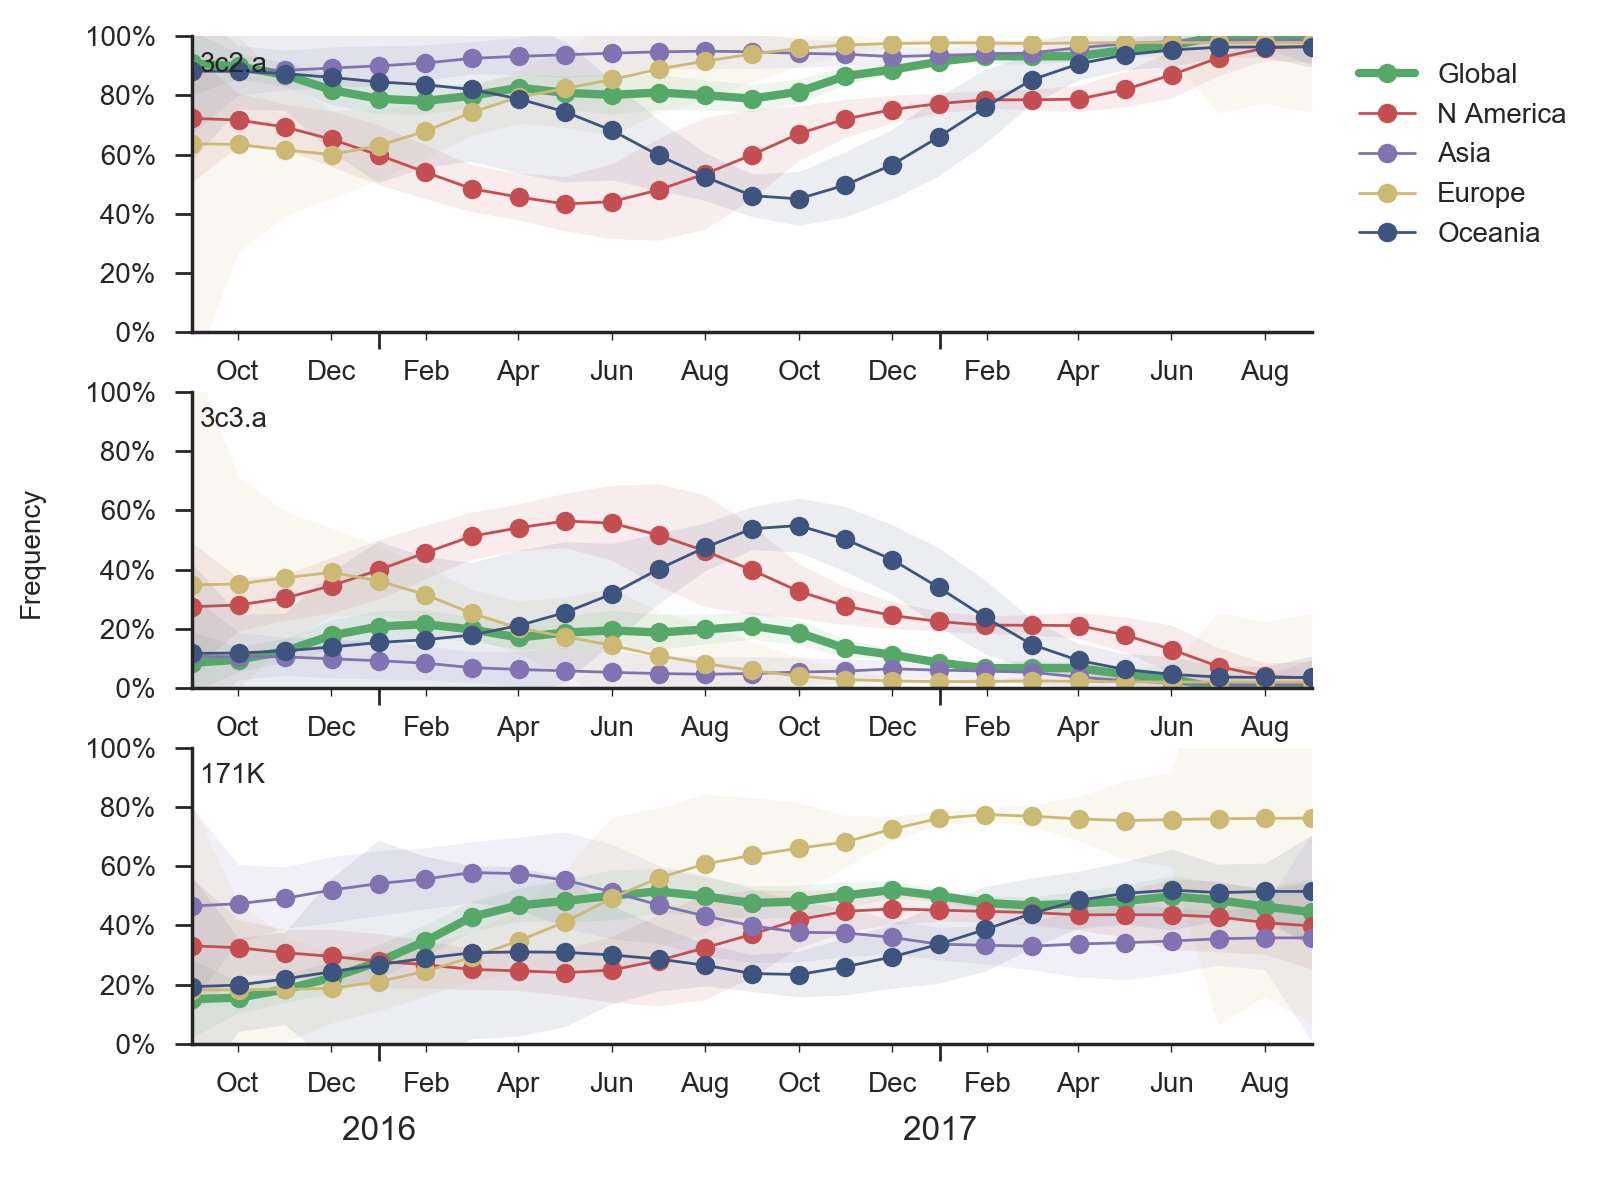
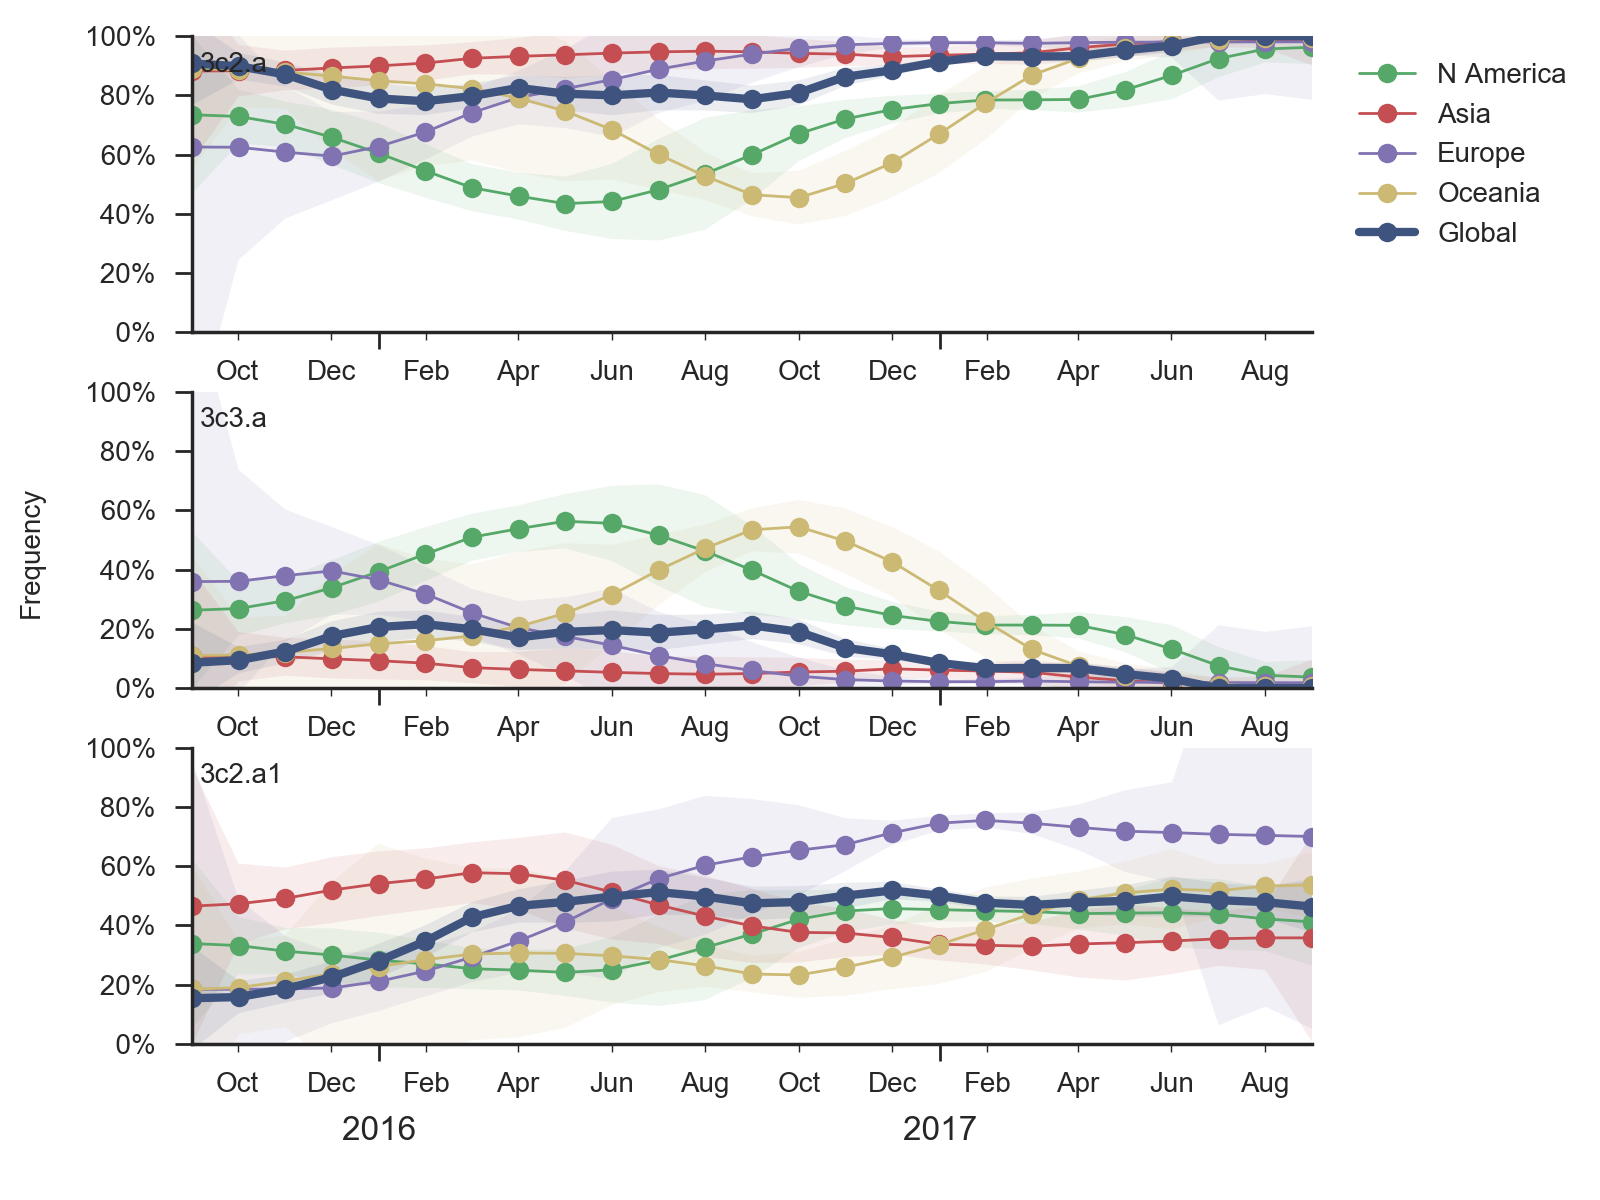
Update 171K to 3c2.a1. Fix H3N2 clades plot.

diff --git a/auspice/reports/_posts/2017-09-12-sep-2017.html b/auspice/reports/_posts/2017-09-12-sep-2017.html
@@ -18,8 +18,9 @@ draft: true
 
         <p><b>H3N2 continues to diversify with many coexisting clades, all of which carry several amino acid mutations at previously characterized epitopes.
         The majority of viruses fall into the 3c2.a clade which has been dominating globally for >3 years, but 3c3.a viruses continue to persist.
-        The common ancestor of circulating H3N2 viruses is now more than 5 years old, which is rare for H3N2. Despite extensive genetic diversity, serological assays suggest limited antigenic evolution.
-        We expect 3c2.a virus to continue to dominate and eventually take over.</b>
+        The common ancestor of circulating H3N2 viruses is now more than 5 years old, which is rare for H3N2.
+        Despite extensive genetic diversity, serological assays suggest limited, but non-zero, antigenic evolution.
+        We expect multiple competing clades within 3c2.a to persist into the future with no clear immediate winner.</b>
 
         <div class="spacer"></div>
 
@@ -54,9 +55,9 @@ draft: true
         Clade 3 (131K, 142K, 261Q) and clade 4 (135K, HA2:150E) have each slowly climbed to approximately 20% frequency.
         However, clade 5 (92R, 311Q) has recently increased to 39% in global frequency.
 
-        {% embed_image /reports/figures/sep-2017/h3n2_mutations_3c2a.png 12 %}
+        {% embed_image /reports/figures/sep-2017/h3n2_mutations.png 12 %}
 
-        All 5 of these clades appear somewhat drifted according to antigenic analysis (<a href="http://www.pnas.org/content/113/12/E1701">Neher et al 2016</a>) of HI measurements provided by the Influenza Division at the US Centers for Disease Control and Prevention.
+        All 5 of these clades appear somewhat drifted according to antigenic analysis (<a href="http://www.pnas.org/content/113/12/E1701">Neher et al 2016</a>) of HI measurements provided by the Influenza Division at the US CDC.
         With antigenic differences estimated between 0.5 units and 2.0 units.
 
         {% embed_image /reports/figures/sep-2017/h3n2_tree_titer_model.png 12 %}
@@ -112,7 +113,7 @@ draft: true
 
         <p>H1N1pdm recently underwent a selective sweep of the 6b.1 clade comprising mutations S162N and I216T.
         Nearly all currently circulating H1N1pdm viruses are clade 6b.1.
-        Correspondingly, the H1N1pdm vaccine strain was updated in Sep 2016 to match 6b.1 viruses.
+        The H1N1pdm vaccine strain was updated in Sep 2016 to match 6b.1 viruses.
 
         <p>There has been little diversification within clade 6b.1 with a couple notable exceptions.
         There is a clade comprising mutations S74R and I295V that has been very successful.
@@ -121,21 +122,21 @@ draft: true
         {% embed_image /reports/figures/sep-2017/h1n1pdm_tree.png 12 %}
 
         <p>The S74R and I295V clade has risen rapidly in frequency starting around Jan 2017.
-        This clade has been very successful is now at approximately 92% global frequency.
+        This clade has been very successful and is now at approximately 92% global frequency.
         Within this clade the subclade comprising S164T has risen in frequency from April 2017 and is now at approximately 35% global frequency.
 
         <p>Other mutations have appeared within 6b.1 viruses including S183P, R205K and I324V, but none of these have been very successful and are now declining in response to the rise of S74R and I295V.
 
         {% embed_image /reports/figures/sep-2017/h1n1pdm_mutations.png 12 %}
 
-        <p>Antigenic analysis using HI measurements provided by the Influenza Division at the US Centers for Disease Control and Prevention fails to show any distinction within recently circulating H1N1pdm viruses.
+        <p>Antigenic analysis using HI measurements provided by the Influenza Division at the US CDC fails to show any distinction within recently circulating H1N1pdm viruses.
         Like the clades 6b and 6b.1 clade before it, the new S74R and I295V clade does not show any titer drop despite there being ample measurements.
 
         {% embed_image /reports/figures/sep-2017/h1n1pdm_tree_titer_model.png 12 %}
 
         It was previously observed that clade 6b viruses with mutation K163Q showed decreased titers in a subset of adult human sera due to immunodominance effects, despite continued high titers in ferret sera (<a href="http://www.pnas.org/content/111/44/15798">Linderman et al 2014</a>).
         Importantly, the new S74R and I295V clade has spread at a similarly rapid rate as did clades 6b and 6b.1.
-        This rate of spread and displacement of existing viral diversity is consistent with a selective driver.
+        This rate of spread and displacement of existing viral diversity is consistent with a selective origin.
 
         {% embed_image /reports/figures/sep-2017/h1n1pdm_mutations_6b_6b1.png 12 %}
 
@@ -176,14 +177,14 @@ draft: true
 
         {% embed_image /reports/figures/sep-2017/vic_mutations.png 12 %}
 
-        <p>The clade bearing 129G, 162–, 163– and 180V appears clearly drifted according to HI measurements provided by the Influenza Division at the US Centers for Disease Control and Prevention.
+        <p>The clade bearing 129G, 162–, 163– and 180V appears clearly drifted according to HI measurements provided by the Influenza Division at the US CDC.
         We estimate an approximately 8-fold titer drop (3 antigenic units) of drift from vaccine strain B/Brisbane/60/2008.
-        Note that a small number of recent viruses sampled in Hong Kong have a 9bp deletion overlapping codons 162, 163, 164, and 165 along with a mutation I180T.
+        Separately, a small number of recent viruses sampled in Hong Kong have a 9bp deletion overlapping codons 162, 163, 164, and 165 along with a mutation I180T.
         While based on limited data, the tree model estimates an 1.2 unit titer drop.
 
         {% embed_image /reports/figures/sep-2017/vic_tree_titer_model.png 12 %}
 
-        <p><i>Although the clade bearing 129G, 162–, 163– and 180V is almost certainly antigenically drifted, it's slow spread up to the this point suggests that it is unlikely to predominate in the population in a year's time.
+        <p><i>Although the clade bearing 129G, 162–, 163– and 180V is almost certainly antigenically drifted, it's slow spread up to the this point suggests that it is unlikely to predominate in a year's time.
         We would advise careful monitoring as further mutations may enhance spread or similar mutations might emerge on fitter backgrounds.</i>
 
     </div>
@@ -214,7 +215,7 @@ draft: true
 
       {% embed_image /reports/figures/sep-2017/yam_mutations.png 12 %}
 
-      <p>Based on HI measurements provided by the Influenza Division at the US Centers for Disease Control and Prevention, we find no evidence for antigenic evolution within clade 3 viruses and the vaccine B/Phuket/3073/2013 remains well matched to circulating viruses.
+      <p>Based on HI measurements provided by the Influenza Division at the US CDC, we find no evidence for antigenic evolution within clade 3 viruses and the vaccine B/Phuket/3073/2013 remains well matched to circulating viruses.
 
       {% embed_image /reports/figures/sep-2017/yam_tree_titer_model.png 12 %}
 

diff --git a/auspice/cdc/h3n2/2y/cell/fra/index.html b/auspice/cdc/h3n2/2y/cell/fra/index.html
@@ -7,7 +7,7 @@ passage: cell
 assay: fra
 coloring: ep, ne, rb, lbi, dfreq, region, date, cHI, HI_dist
 gtplaceholder: HA1 positions...
-freqdefault: 3c2.a, 3c3.a, 3c3.b, 171K
+freqdefault: 3c2.a, 3c3.a, 3c2.a1
 site: cdc
 ---
 

diff --git a/auspice/cdc/h3n2/3y/cell/fra/index.html b/auspice/cdc/h3n2/3y/cell/fra/index.html
@@ -7,7 +7,7 @@ passage: cell
 assay: fra
 coloring: ep, ne, rb, lbi, dfreq, region, date, cHI, HI_dist
 gtplaceholder: HA1 positions...
-freqdefault: 3c2.a, 3c3.a, 3c3.b, 171K
+freqdefault: 3c2.a, 3c3.a, 3c2.a1
 site: cdc
 ---
 

diff --git a/auspice/cdc/h3n2/6y/cell/fra/index.html b/auspice/cdc/h3n2/6y/cell/fra/index.html
@@ -7,7 +7,7 @@ passage: cell
 assay: fra
 coloring: ep, ne, rb, lbi, dfreq, region, date, cHI, HI_dist
 gtplaceholder: HA1 positions...
-freqdefault: 3c2.a, 3c3.a, 3c3.b, 171K
+freqdefault: 3c2.a, 3c3.a, 3c2.a1
 site: cdc
 ---
 

diff --git a/auspice/cdc/h3n2/2y/cell/hi/index.html b/auspice/cdc/h3n2/2y/cell/hi/index.html
@@ -7,7 +7,7 @@ passage: cell
 assay: hi
 coloring: ep, ne, rb, lbi, dfreq, region, date, cHI, HI_dist
 gtplaceholder: HA1 positions...
-freqdefault: 3c2.a, 3c3.a, 3c3.b, 171K
+freqdefault: 3c2.a, 3c3.a, 3c2.a1
 site: cdc
 ---
 

diff --git a/auspice/cdc/h3n2/2y/egg/fra/index.html b/auspice/cdc/h3n2/2y/egg/fra/index.html
@@ -7,7 +7,7 @@ passage: egg
 assay: fra
 coloring: ep, ne, rb, lbi, dfreq, region, date, cHI, HI_dist
 gtplaceholder: HA1 positions...
-freqdefault: 3c2.a, 3c3.a, 3c3.b, 171K
+freqdefault: 3c2.a, 3c3.a, 3c2.a1
 site: cdc
 ---
 

diff --git a/auspice/cdc/h3n2/3y/cell/hi/index.html b/auspice/cdc/h3n2/3y/cell/hi/index.html
@@ -7,7 +7,7 @@ passage: cell
 assay: hi
 coloring: ep, ne, rb, lbi, dfreq, region, date, cHI, HI_dist
 gtplaceholder: HA1 positions...
-freqdefault: 3c2.a, 3c3.a, 3c3.b, 171K
+freqdefault: 3c2.a, 3c3.a, 3c2.a1
 site: cdc
 ---
 

diff --git a/auspice/cdc/h3n2/3y/egg/fra/index.html b/auspice/cdc/h3n2/3y/egg/fra/index.html
@@ -7,7 +7,7 @@ passage: egg
 assay: fra
 coloring: ep, ne, rb, lbi, dfreq, region, date, cHI, HI_dist
 gtplaceholder: HA1 positions...
-freqdefault: 3c2.a, 3c3.a, 3c3.b, 171K
+freqdefault: 3c2.a, 3c3.a, 3c2.a1
 site: cdc
 ---
 

diff --git a/auspice/cdc/h3n2/6y/cell/hi/index.html b/auspice/cdc/h3n2/6y/cell/hi/index.html
@@ -7,7 +7,7 @@ passage: cell
 assay: hi
 coloring: ep, ne, rb, lbi, dfreq, region, date, cHI, HI_dist
 gtplaceholder: HA1 positions...
-freqdefault: 3c2.a, 3c3.a, 3c3.b, 171K
+freqdefault: 3c2.a, 3c3.a, 3c2.a1
 site: cdc
 ---
 

diff --git a/auspice/cdc/h3n2/6y/egg/fra/index.html b/auspice/cdc/h3n2/6y/egg/fra/index.html
@@ -7,7 +7,7 @@ passage: egg
 assay: fra
 coloring: ep, ne, rb, lbi, dfreq, region, date, cHI, HI_dist
 gtplaceholder: HA1 positions...
-freqdefault: 3c2.a, 3c3.a, 3c3.b, 171K
+freqdefault: 3c2.a, 3c3.a, 3c2.a1
 site: cdc
 ---
 

diff --git a/auspice/cdc/h3n2/2y/egg/hi/index.html b/auspice/cdc/h3n2/2y/egg/hi/index.html
@@ -7,7 +7,7 @@ passage: egg
 assay: hi
 coloring: ep, ne, rb, lbi, dfreq, region, date, cHI, HI_dist
 gtplaceholder: HA1 positions...
-freqdefault: 3c2.a, 3c3.a, 3c3.b, 171K
+freqdefault: 3c2.a, 3c3.a, 3c2.a1
 site: cdc
 ---
 

diff --git a/auspice/cdc/h3n2/3y/egg/hi/index.html b/auspice/cdc/h3n2/3y/egg/hi/index.html
@@ -7,7 +7,7 @@ passage: egg
 assay: hi
 coloring: ep, ne, rb, lbi, dfreq, region, date, cHI, HI_dist
 gtplaceholder: HA1 positions...
-freqdefault: 3c2.a, 3c3.a, 3c3.b, 171K
+freqdefault: 3c2.a, 3c3.a, 3c2.a1
 site: cdc
 ---
 
